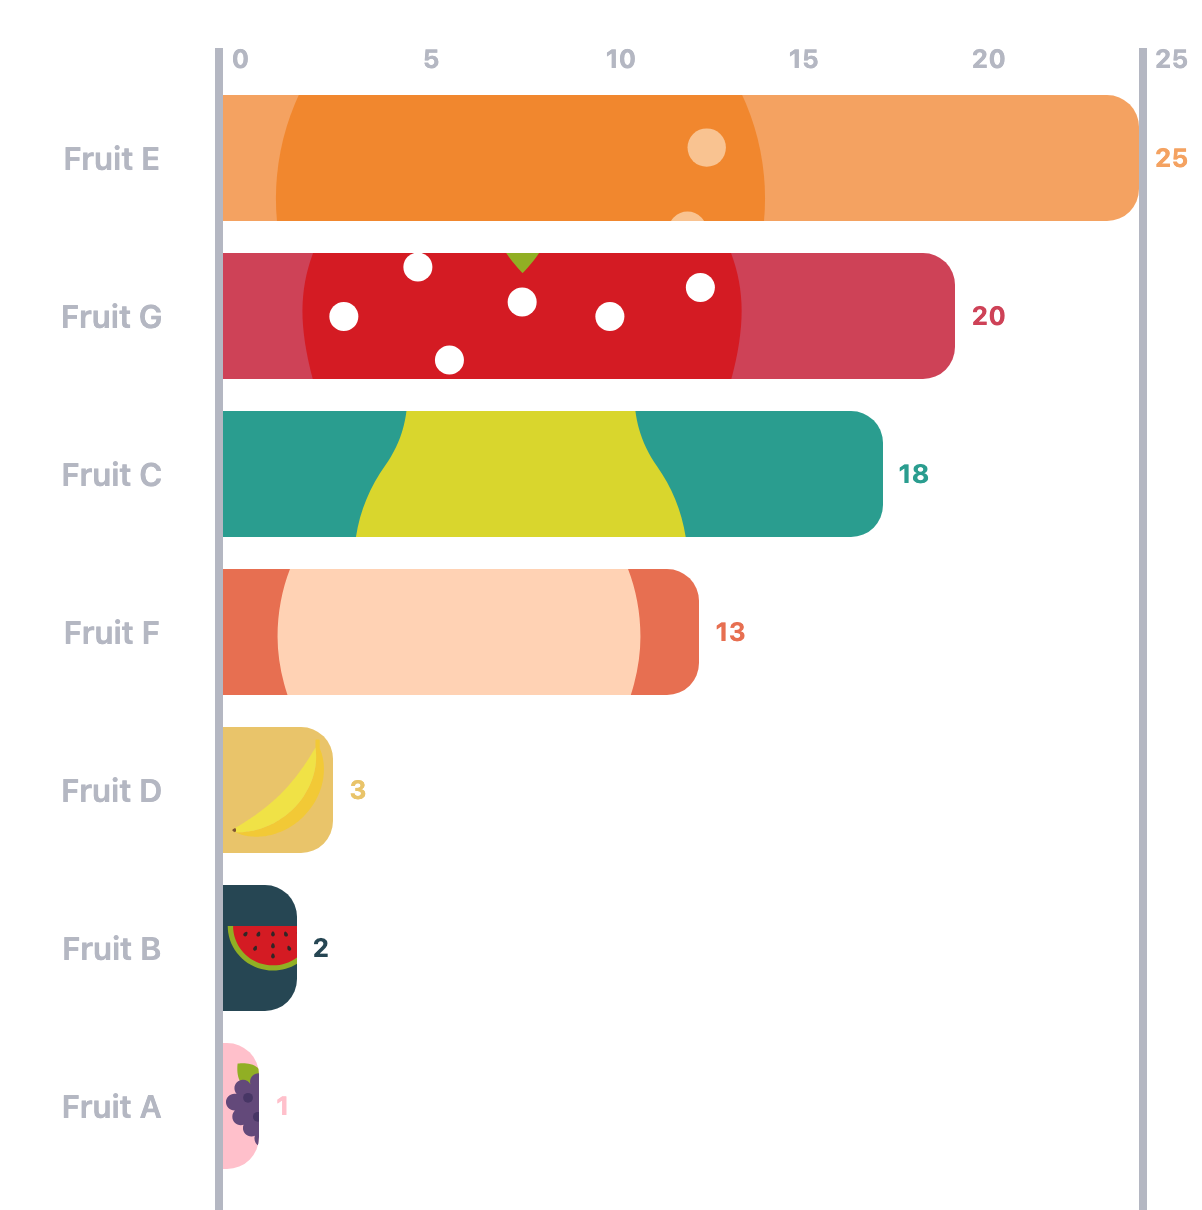
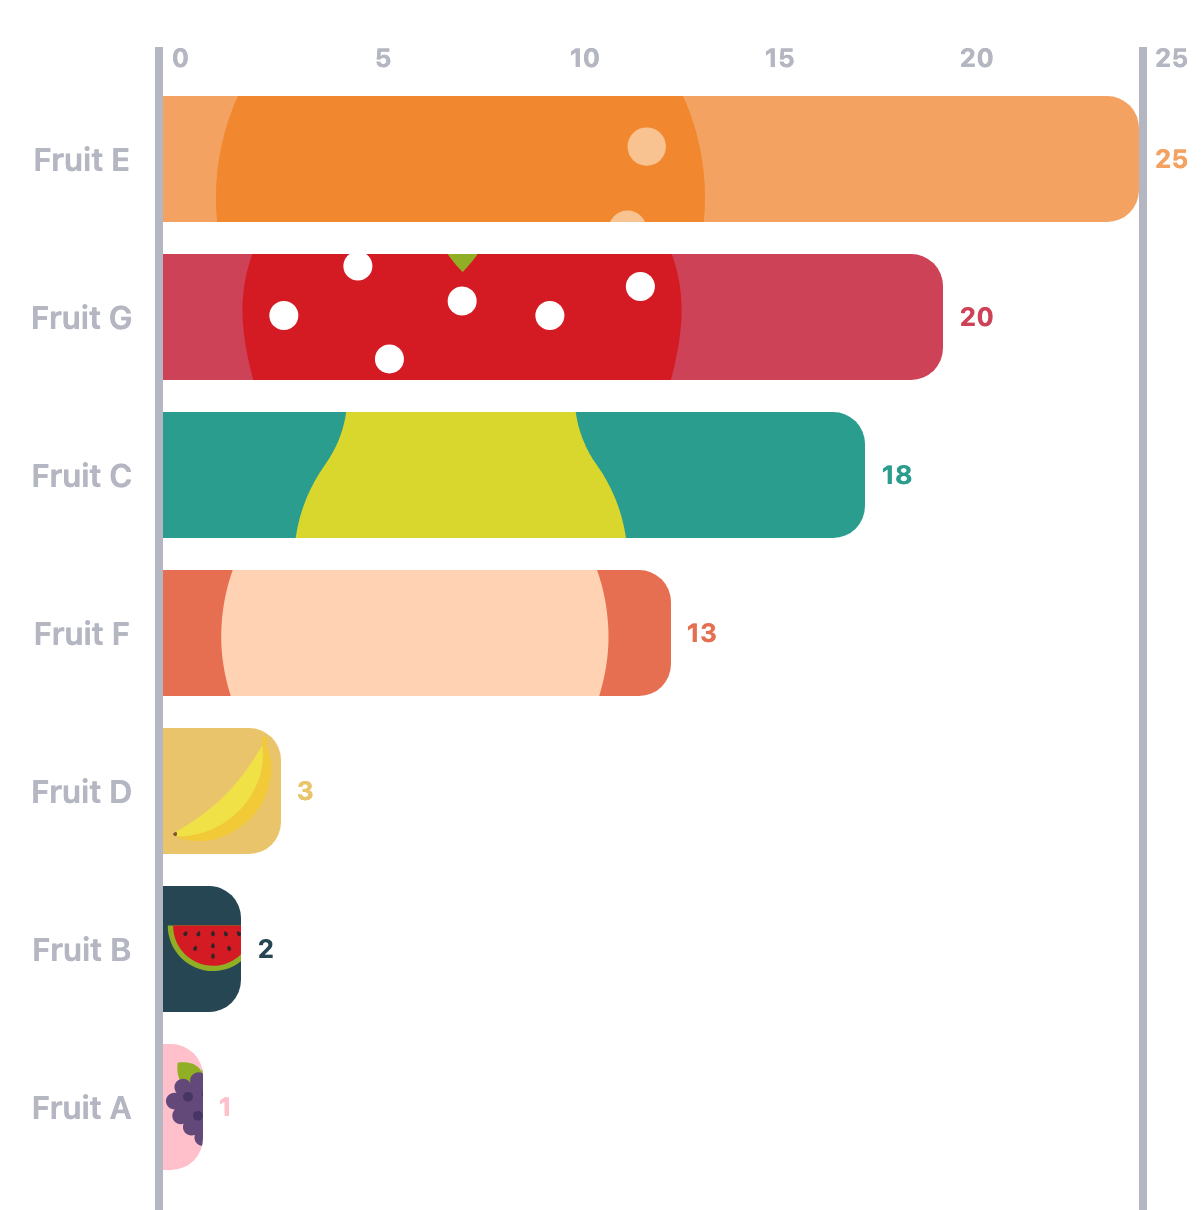
Narrow the fruit card's name gutter to 82px, matching rhp's gallery

diff --git a/src/gallery/examples/bar-chart/poster/chart.jsx b/src/gallery/examples/bar-chart/poster/chart.jsx
@@ -40,7 +40,7 @@ const COLORS = ["pink", "#264653", "#2a9d8f", "#e9c46a", "#f4a261", "#e76f51", "
 export const FruitSlat = slat({
   thickness: { horizontal: 79 }, // v1: seven rows in 552px; vertical: the rows share the width
   inset: "8px",
-  room: { horizontal: { start: 112, end: 32 }, vertical: { start: 32, end: 30 } }, // for the names and values
+  room: { horizontal: { start: 82, end: 32 }, vertical: { start: 32, end: 30 } }, // for the names and values
   css: styles.fruit,
 }, (d) => (
   <div class={d.dim ? "slat dim" : "slat"} style={{ "--rhp-color": d.color }}>
